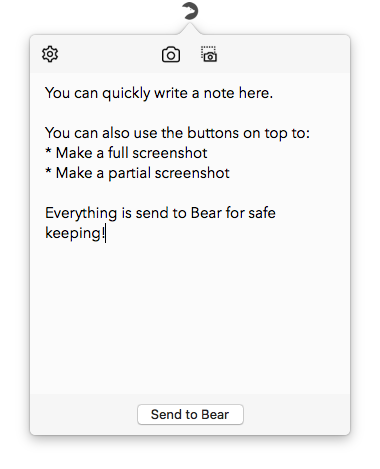
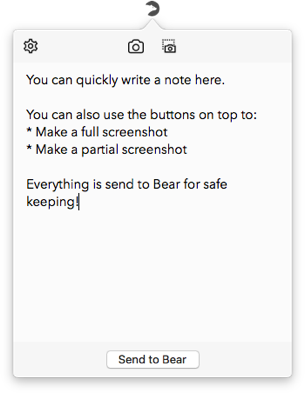
Added dark mode screenshot to readme

diff --git a/README.md b/README.md
@@ -2,7 +2,8 @@
 
 Menubar application that allows you to quickly create notes/screenshots and send them to [Bear](https://www.bear-writer.com/)
 
-![Screenshot of bearclaw](https://savjee.github.io/bearclaw/img/screenshot.png)
+![Screenshot of Bearclaw](https://savjee.github.io/bearclaw/img/screenshot.png)
+![Screenshot of Bearclaw in dark mode](https://savjee.github.io/bearclaw/img/screenshot-dark.png)
 
 [Download it here](https://github.com/Savjee/bearclaw/releases/)
 
